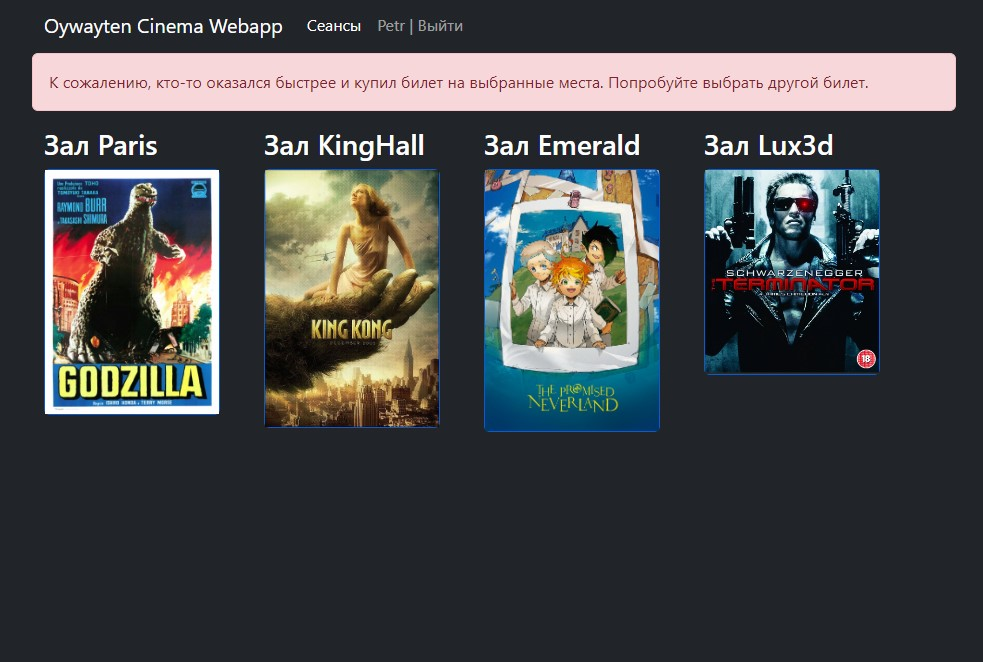
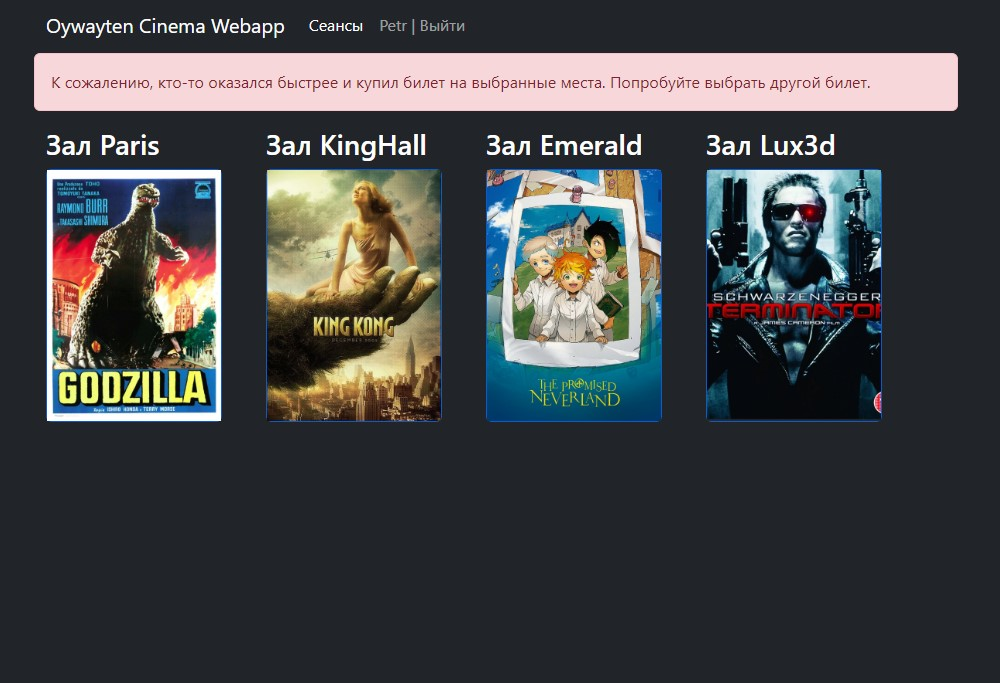
job4j-112 2. Сервис - Кинотеатр [#504869]
Обновил скрины взаимодействия с приложением, resized постеры сеансов.
Поправил масштабируемость карточек сеансов на странице сеансов.

Changed region(s): [[0.0305, 0.0302, 0.9766, 0.6647]]

diff --git a/src/main/resources/templates/sessions_view.html b/src/main/resources/templates/sessions_view.html
@@ -54,10 +54,10 @@
             выбрать другой билет.
         </div>
     </div>
-        <div class="row">
-        <div class="col col-2" th:each="session1: ${sessions}">
-            <h3 th:text="'Зал ' + ${session1.hall.name}"></h3>
-            <span class="card bg-primary" style="max-width: 11rem">
+        <div class="row row-cols-2 row-cols-lg-5 g-2 g-lg-3">
+        <div class="col" th:each="session1: ${sessions}">
+            <h3 th:text="'Зал&nbsp;' + ${session1.hall.name}"></h3>
+            <span class="card bg-primary" style="max-width: 11rem; min-width: 5rem">
                         <img class="img-fluid" th:src="@{|/photoSession/${session1.id}|}"
                              th:alt="${session1.name}" src="">
                 <a class="stretched-link" href="https://ya.ru/"
